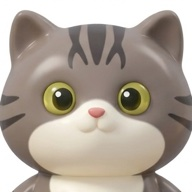
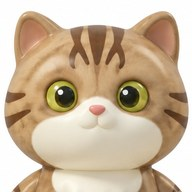
彩蛋換成設計圖、Q喵改淺黃虎斑、易霖馬尾併成一條、島民手臂放低
- 彩蛋：10 顆各有圖案（public/eggs），卡片、圖鑑、島上 3D 彩蛋共用；沒找到的顯示剪影
- Q喵：依真貓照片改成淺黃褐虎斑、奶油色腳掌，頭像換成 v3 設定圖
- 幹事李易霖：3D 模型耳後兩條頭髮收攏成腦後一條低馬尾
- 島民：站姿手臂由 A 字往下收，走路動作照原站姿換算

diff --git a/app/src/scene/characters.js b/app/src/scene/characters.js
@@ -18,7 +18,7 @@ const MODELS = {
   principal: { file: 'principal.glb', logo: 'polo' },
   'director-zhuang': { file: 'director-zhuang.glb', logo: 'polo' },
   'teacher-huang': { file: 'teacher-huang.glb', logo: 'polo', erase: [-0.056, 0.722, -0.028, 0.785] },
-  clerk: { file: 'clerk.glb', logo: 'polo' },
+  clerk: { file: 'clerk.glb', logo: 'polo', oneTail: true },
   uncle: { file: 'uncle.glb' },
 };
 // 圖案位置都用骨架比例算（f：臀到脖子之間的高度比例；w、x：相對肩寬），每位身材不同也對得上
@@ -168,6 +168,86 @@ function bakeLogo(root, logo, spec, { cover, erase }) {
   mesh.material.needsUpdate = true;
 }
 
+// 幹事李易霖：設計是腦後一條低馬尾，3D 生成卻做成耳後左右各一條（從正面看像長髮）。
+// 把脖子後面的深色頭髮往中線收攏，兩條併成一條。
+// 模型頂點是壓縮過的整數，先換算成站姿時的實際位置（公尺）來判斷，再換回去改。
+export function mergeTails(root) {
+  root.updateMatrixWorld(true);
+  let mesh;
+  root.traverse((o) => { if (o.isSkinnedMesh) mesh = o; });
+  const img = mesh.material.map.image;
+  const cv = document.createElement('canvas');
+  cv.width = img.width;
+  cv.height = img.height;
+  const g = cv.getContext('2d', { willReadFrequently: true });
+  g.drawImage(img, 0, 0);
+  const px = g.getImageData(0, 0, cv.width, cv.height).data;
+  const { position: pos, uv } = mesh.geometry.attributes;
+  const world = (i, v) => mesh.getVertexPosition(i, v).applyMatrix4(mesh.matrixWorld);
+  // 原始 x 與實際 x 是線性關係：拿最左、最右兩點求出比例與位移
+  const v = new THREE.Vector3();
+  let lo = 0, hi = 0;
+  for (let i = 1; i < pos.count; i++) {
+    if (pos.getX(i) < pos.getX(lo)) lo = i;
+    if (pos.getX(i) > pos.getX(hi)) hi = i;
+  }
+  const xl = world(lo, v).x, xh = world(hi, v).x;
+  const sx = (xh - xl) / (pos.getX(hi) - pos.getX(lo)), bx = xl - sx * pos.getX(lo);
+  // 同一個位置可能有好幾個頂點（貼圖接縫切開的），要一起動，不然會裂開、長出尖刺
+  const groups = new Map();
+  const at = [];
+  for (let i = 0; i < pos.count; i++) {
+    const p = world(i, new THREE.Vector3());
+    at.push(p);
+    if (p.y < 0.8 || p.y > 1.0 || p.z > -0.05) continue;
+    const key = `${Math.round(p.x * 2000)},${Math.round(p.y * 2000)},${Math.round(p.z * 2000)}`;
+    if (!groups.has(key)) groups.set(key, { ids: [], dark: false });
+    const grp = groups.get(key);
+    grp.ids.push(i);
+    const t = (Math.floor(uv.getY(i) * cv.height) * cv.width + Math.floor(uv.getX(i) * cv.width)) * 4;
+    if (px[t] + px[t + 1] + px[t + 2] < 150) grp.dark = true; // 深色＝頭髮
+  }
+  const move = new Set();
+  for (const grp of groups.values()) if (grp.dark) grp.ids.forEach((i) => move.add(i));
+  // 再往外多帶一圈相鄰的頂點，頭髮邊緣才不會被拉出尖角
+  const index = mesh.geometry.index;
+  const ring = new Set();
+  for (let f = 0; f < index.count; f += 3) {
+    const tri = [index.getX(f), index.getX(f + 1), index.getX(f + 2)];
+    if (tri.some((i) => move.has(i))) tri.forEach((i) => { if (at[i].y >= 0.8 && at[i].z < -0.03) ring.add(i); });
+  }
+  for (const i of ring) {
+    const p = at[i];
+    const key = `${Math.round(p.x * 2000)},${Math.round(p.y * 2000)},${Math.round(p.z * 2000)}`;
+    (groups.get(key)?.ids || [i]).forEach((j) => move.add(j));
+  }
+  for (const i of move) {
+    const { x, y } = at[i];
+    const w = THREE.MathUtils.smoothstep(1.0 - y, 0, 0.05); // 越往下收得越緊
+    const nx = x - Math.sign(x) * Math.min(Math.abs(x), 0.07) * w; // 整條平移到中間，粗細不變，兩條疊成一條
+    pos.setX(i, (nx - bx) / sx);
+  }
+  if (pos.isInterleavedBufferAttribute) pos.data.needsUpdate = true;
+  else pos.needsUpdate = true;
+}
+
+// 模型的站姿手臂張開約 60 度（A 字），站著不動時很僵硬，往下收一點比較自然。
+// 原本的站姿記在 userData.rest0，套走路動作時要用原本的站姿算差值。單位：弧度
+const ARM_DOWN = 0.26;
+export function lowerArms(root) {
+  root.updateMatrixWorld(true);
+  root.traverse((o) => { if (o.isBone && !o.userData.rest0) o.userData.rest0 = o.quaternion.clone(); });
+  const fwd = new THREE.Vector3(0, 0, 1);
+  for (const [name, side] of [['LeftArm', 1], ['RightArm', -1]]) {
+    const bone = root.getObjectByName(name);
+    if (!bone) continue;
+    const parent = bone.parent.getWorldQuaternion(new THREE.Quaternion());
+    const down = new THREE.Quaternion().setFromAxisAngle(fwd, -side * ARM_DOWN);
+    bone.quaternion.premultiply(parent.clone().invert().multiply(down).multiply(parent));
+  }
+  root.updateMatrixWorld(true);
+}
+
 // 原始動作的手幾乎貼著身體，遠看像沒有擺手，所以依腿的節奏再加一段前後擺動。單位：弧度
 const ARM_SWING = 0.36;
 const ELBOW_REST = 0.08, ELBOW_SWING = 0.28;
@@ -210,7 +290,7 @@ function retargetWalk(clip, src, tgt) {
     const a = src.getObjectByName(name), b = tgt.getObjectByName(name);
     if (!a || !b) continue;
     if (prop === 'quaternion') {
-      const inv = a.quaternion.clone().invert();
+      const inv = (a.userData.rest0 || a.quaternion).clone().invert();
       const values = new Float32Array(t.values.length);
       const isArm = armForward(name, 0) !== null;
       const parent = b.parent.getWorldQuaternion(new THREE.Quaternion()), parentInv = parent.clone().invert();
@@ -247,8 +327,10 @@ export async function loadCharacters(onReady) {
     const def = MODELS[key];
     try {
       const gltf = await loader.loadAsync(BASE + def.file);
-      const walk = retargetWalk((source || gltf).animations[0], (source || gltf).scene, gltf.scene);
       if (def.logo && images[def.logo]) bakeLogo(gltf.scene, images[def.logo], LOGOS[def.logo], def);
+      if (def.oneTail) mergeTails(gltf.scene);
+      lowerArms(gltf.scene);
+      const walk = retargetWalk((source || gltf).animations[0], (source || gltf).scene, gltf.scene);
       gltf.scene.traverse((o) => {
         if (o.isMesh) {
           o.frustumCulled = false; // 骨架動畫會讓包圍盒跑掉，乾脆不裁切

diff --git a/app/src/scene/eggMarkers.js b/app/src/scene/eggMarkers.js
@@ -4,9 +4,10 @@ import { TOP } from './kit.js';
 import { EGGS } from '../data/eggs.js';
 
 const SHOW_WITHIN = 70; // 鏡頭離彩蛋多近才出現（全景下找不到，鼓勵逛島）
-const EGG_GEO = new THREE.SphereGeometry(0.42, 20, 14).scale(1, 1.28, 1);
-const BAND_GEO = new THREE.TorusGeometry(0.43, 0.06, 8, 24).rotateX(Math.PI / 2);
-const BAND_MAT = new THREE.MeshStandardMaterial({ color: 0x5fb8a6, roughness: 0.5 });
+// 看得到的是彩蛋設計圖（public/eggs/<id>.png）做成的看板，永遠面向鏡頭；點擊用一顆看不見的蛋形。
+const HIT_GEO = new THREE.SphereGeometry(0.42, 12, 10).scale(1, 1.28, 1);
+const HIT_MAT = new THREE.MeshBasicMaterial({ visible: false });
+const texLoader = new THREE.TextureLoader();
 
 export function createEggMarkers(scene, clusters, { isFound, isNight }) {
   const markers = [];
@@ -17,13 +18,12 @@ export function createEggMarkers(scene, clusters, { isFound, isNight }) {
     const tile = cluster?.tiles[egg.where.tile];
     if (!tile) return;
     const root = new THREE.Group();
-    const shell = new THREE.Mesh(EGG_GEO, new THREE.MeshStandardMaterial({
-      color: 0xfbf3e2, emissive: new THREE.Color(egg.color), emissiveIntensity: 0.35, roughness: 0.45,
-    }));
-    shell.castShadow = true;
-    const band = new THREE.Mesh(BAND_GEO, BAND_MAT);
-    band.position.y = 0.05;
-    root.add(shell, band);
+    const shell = new THREE.Mesh(HIT_GEO, HIT_MAT);
+    const tex = texLoader.load(`./public/eggs/${egg.id}.png`);
+    tex.colorSpace = THREE.SRGBColorSpace;
+    const art = new THREE.Sprite(new THREE.SpriteMaterial({ map: tex, transparent: true }));
+    art.scale.set(0.84, 1.08, 1); // 圖是 170×220
+    root.add(shell, art);
     // 放在格子邊緣、避開中間的建築
     const a = 0.6 + i * 1.7;
     root.position.set(tile.pos.x + Math.cos(a) * 3.1, TOP + 0.62, tile.pos.z + Math.sin(a) * 3.1);
@@ -31,7 +31,7 @@ export function createEggMarkers(scene, clusters, { isFound, isNight }) {
     root.visible = false;
     shell.userData.eggId = egg.id;
     scene.add(root);
-    markers.push({ egg, root, shell, base: root.position.y, phase: i });
+    markers.push({ egg, root, shell, art, base: root.position.y, phase: i });
   });
 
   function update(t, camera) {
@@ -41,8 +41,9 @@ export function createEggMarkers(scene, clusters, { isFound, isNight }) {
         && camera.position.distanceTo(m.root.getWorldPosition(tmp)) < SHOW_WITHIN;
       if (!m.root.visible) continue;
       m.root.position.y = m.base + Math.sin(t * 2 + m.phase) * 0.12;
-      m.root.rotation.y = t * 0.8 + m.phase;
-      m.shell.material.emissiveIntensity = 0.3 + Math.sin(t * 3 + m.phase) * 0.15;
+      m.art.material.rotation = Math.sin(t * 2.4 + m.phase) * 0.12; // 左右搖一搖，像在叫人
+      const s = 1 + Math.sin(t * 3 + m.phase) * 0.04;
+      m.art.scale.set(0.84 * s, 1.08 * s, 1);
     }
   }
 

diff --git a/app/src/scene/qcat.js b/app/src/scene/qcat.js
@@ -1,4 +1,4 @@
-// 太平Q喵：灰褐虎斑小貓，躲在某一格的設施裡；點開那一格才會跑出來，在建築外圍跑來跑去，點到牠可以餵貓糧。
+// 太平Q喵：淺黃褐虎斑小貓，躲在某一格的設施裡；點開那一格才會跑出來，在建築外圍跑來跑去，點到牠可以餵貓糧。
 // 現在是程式拼的暫代貓；Higgsfield 3D 模型確認後放到 MODEL，就會自動換上。
 import * as THREE from 'three';
 import { CSS2DObject } from 'three/addons/CSS2DRenderer.js';
@@ -7,10 +7,10 @@ import { TOP } from './kit.js';
 
 const MODEL = null; // 例：'./public/models/qcat.glb'
 const SHOW_WITHIN = 75;
-// 配色照學校那隻真貓（美術/參考/貓咪）：灰褐虎斑、奶油白胸口、深色腳掌、黑尾尖
-const GREY = 0x8f8379;
-const STRIPE = 0x3f3833;
-const WHITE = 0xf3ead8;
+// 配色照學校那隻真貓（美術/參考/貓咪）：淺黃褐色虎斑、奶油白胸口和腳掌、黑尾尖
+const GREY = 0xc9a874; // 身體底色（淺黃褐）
+const STRIPE = 0x6e5236;
+const WHITE = 0xf6ead0;
 const DARK = 0x2a2522;
 
 function mat(color, rough = 0.55) {
@@ -36,8 +36,8 @@ function makeCat() {
   add(new THREE.SphereGeometry(0.22, 16, 12).scale(1, 1.1, 0.7), white, 0, 0.33, 0.2);
   const dark = mat(DARK, 0.5);
   for (const x of [-0.17, 0.17]) {
-    add(new THREE.SphereGeometry(0.1, 12, 10), dark, x, 0.07, 0.2);
-    add(new THREE.SphereGeometry(0.1, 12, 10), dark, x, 0.08, -0.18);
+    add(new THREE.SphereGeometry(0.1, 12, 10), white, x, 0.07, 0.2);
+    add(new THREE.SphereGeometry(0.1, 12, 10), grey, x, 0.08, -0.18);
   }
   const head = new THREE.Group();
   head.position.set(0, 0.82, 0.05);

diff --git a/app/styles.css b/app/styles.css
@@ -293,6 +293,10 @@ button.read-row:hover, button.read-row:focus-visible { border-color: #3f8f9e; ou
 }
 .egg-art.big { width: 112px; height: 140px; animation: egg-pop .6s cubic-bezier(.3,1.6,.5,1) both; }
 .egg-art.locked { background: radial-gradient(circle at 40% 35%, #f1eee8, #d9d4ca 75%); box-shadow: inset -4px -6px 10px rgba(0,0,0,.06); }
+.egg-art.has-img, .egg-art.has-img.locked { background: none; box-shadow: none; border-radius: 0; }
+.egg-img { position: absolute; inset: 0; width: 100%; height: 100%; object-fit: contain; filter: drop-shadow(0 5px 6px rgba(60, 40, 20, .18)); }
+.egg-art.locked .egg-img { filter: brightness(0) opacity(.13); }
+.egg-art.locked .egg-q { position: absolute; color: #a39d92; text-shadow: none; }
 .egg-q { font-size: 24px; font-weight: 800; color: #fff; text-shadow: 0 1px 2px rgba(0,0,0,.15); }
 @keyframes egg-pop { from { transform: scale(.4) rotate(-12deg); opacity: 0; } to { transform: none; opacity: 1; } }
 .egg-kicker { margin: 0 0 10px; font-size: 13px; font-weight: 800; letter-spacing: .08em; color: var(--accent, #f08a3c); }

diff --git a/app/src/ui/staffTalk.js b/app/src/ui/staffTalk.js
@@ -113,7 +113,7 @@ export function createStaffTalk({ dialog, eggs, qcat, reading, clusters, mapUrl,
   function openedTile(tile) {
     if (!quest.active || quest.fed || !qcat.reveal(tile)) return false;
     dialog.say({
-      text: `喵！（有個灰褐色的影子從「${tile.name}」裡衝出來，在建築旁邊跑來跑去！）`,
+      text: `喵！（有個淺黃色的影子從「${tile.name}」裡衝出來，在建築旁邊跑來跑去！）`,
       name: '太平Q喵',
       faceUrl: './public/staff/qcat.jpg',
       options: [{ label: '快點牠！' }],
@@ -128,7 +128,7 @@ export function createStaffTalk({ dialog, eggs, qcat, reading, clusters, mapUrl,
       speak('喵～（Q喵舔舔嘴巴，看起來很滿足）', [{ label: '回去告訴校長' }]);
       return;
     }
-    speak('喵～？（灰褐色的虎斑小貓探出頭來，肚子咕嚕咕嚕叫）', [
+    speak('喵～？（淺黃色的虎斑小貓探出頭來，肚子咕嚕咕嚕叫）', [
       {
         label: '餵牠吃貓糧',
         run: () => qcat.feed().then(() => {

diff --git a/app/src/ui/eggs.js b/app/src/ui/eggs.js
@@ -12,11 +12,18 @@ function el(tag, cls, text) {
   return e;
 }
 
-/** 彩蛋的樣子：奶油色蛋殼、主題色斑點、一圈青綠色緞帶（太平T 的顏色）。沒找到的是灰色問號。 */
+/** 彩蛋的樣子：設計稿切出來的圖（public/eggs/<id>.png，奶油色蛋殼＋青綠緞帶＋各自的圖案）。
+ *  沒找到的只顯示灰色剪影和問號；圖讀不到時退回 CSS 畫的蛋。 */
 export function eggArt(egg, locked = false, size = '') {
-  const art = el('span', `egg-art ${size}${locked ? ' locked' : ''}`);
+  const art = el('span', `egg-art has-img ${size}${locked ? ' locked' : ''}`);
   art.style.setProperty('--egg', locked ? '#c9c4bb' : egg.color);
   art.setAttribute('aria-hidden', 'true');
+  const img = el('img', 'egg-img');
+  img.src = `./public/eggs/${egg.id}.png`;
+  img.alt = '';
+  img.decoding = 'async';
+  img.addEventListener('error', () => { img.remove(); art.classList.remove('has-img'); });
+  art.append(img);
   if (locked) art.append(el('span', 'egg-q', '?'));
   return art;
 }
